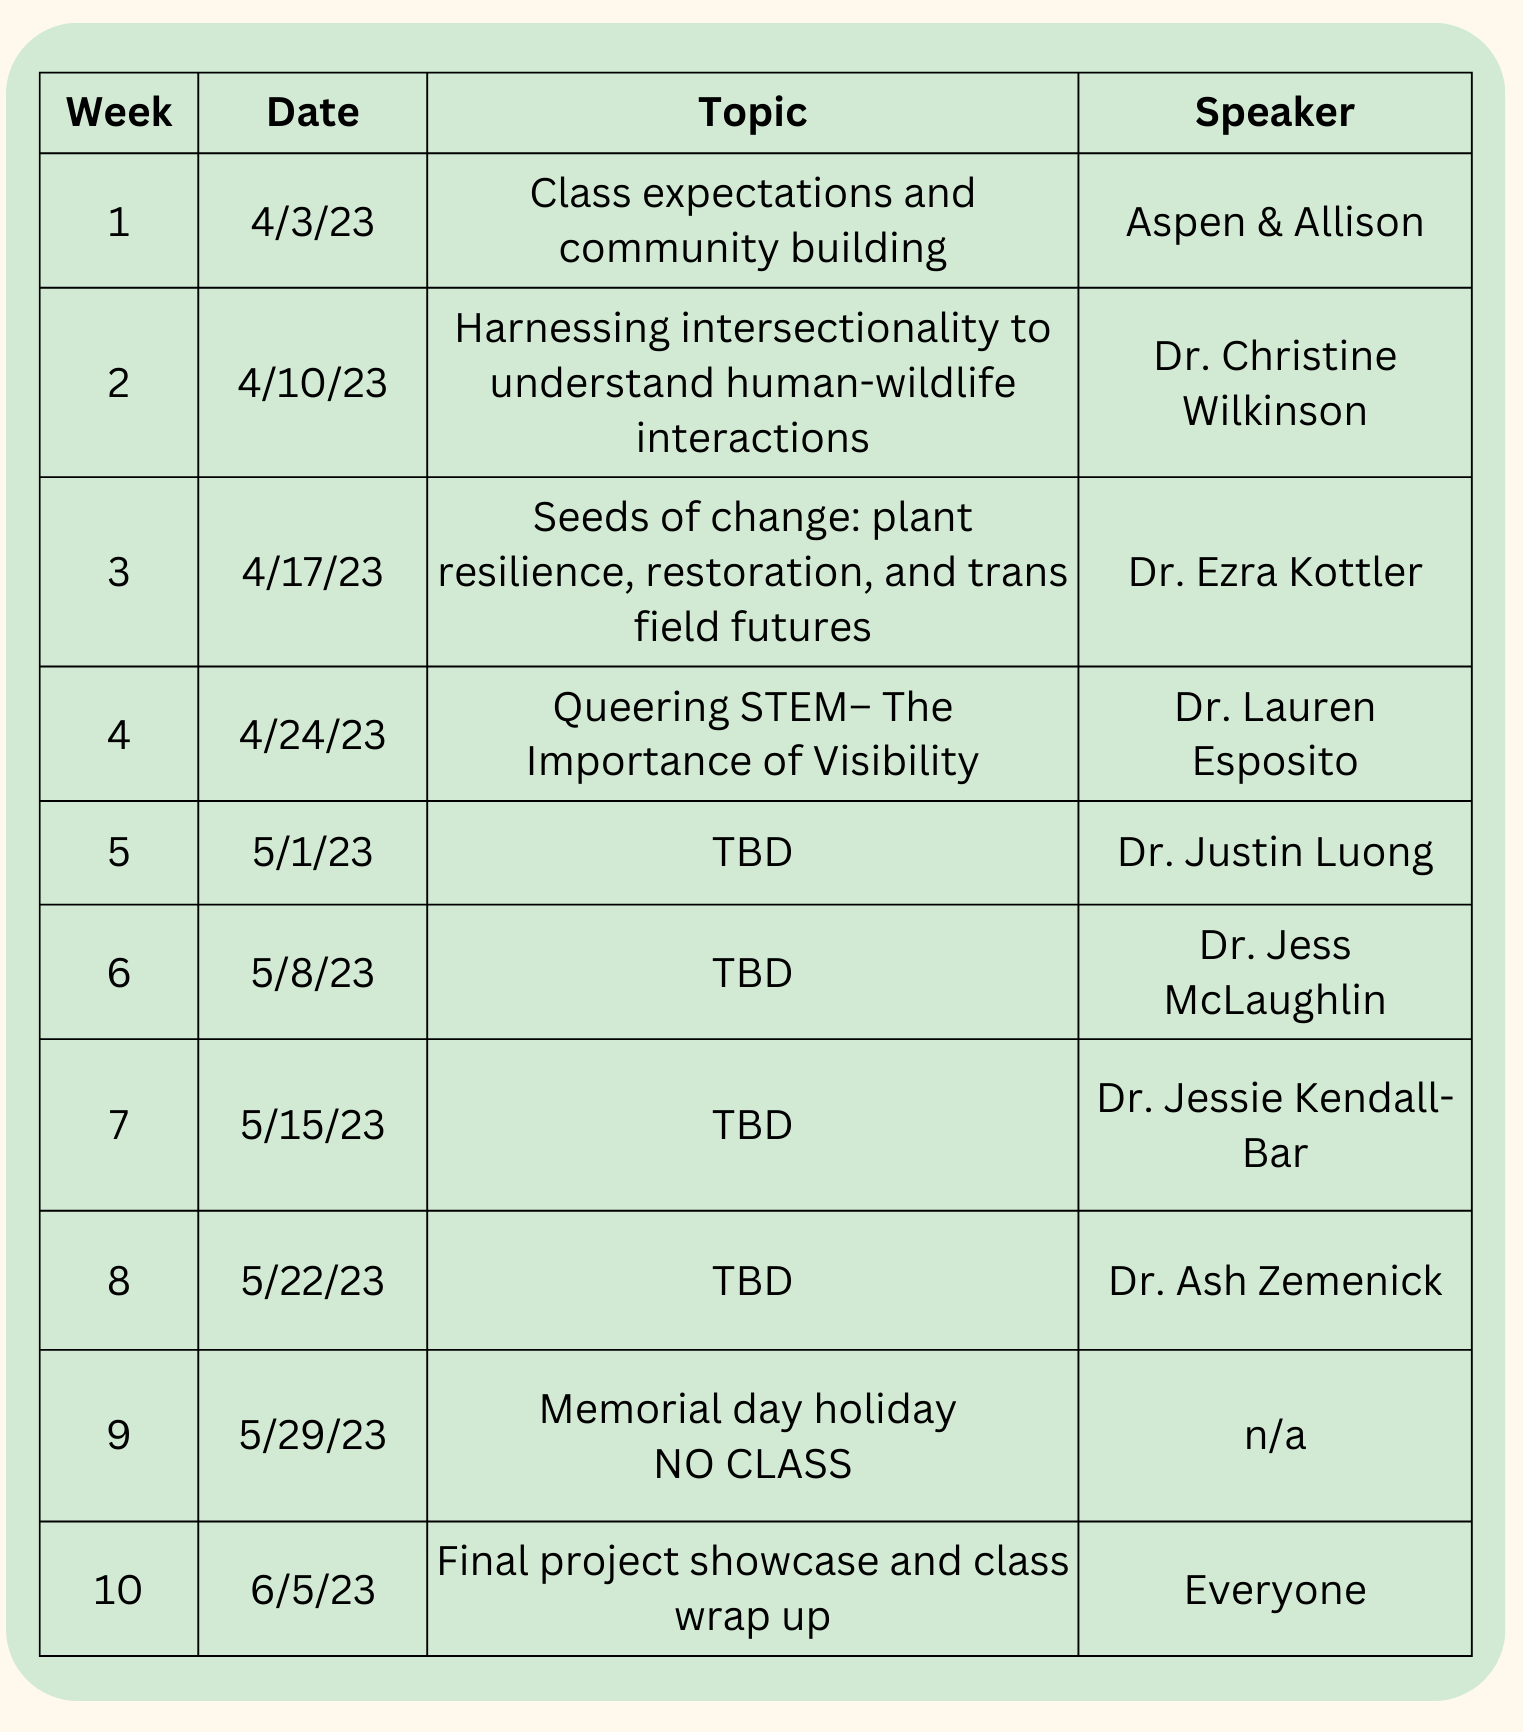
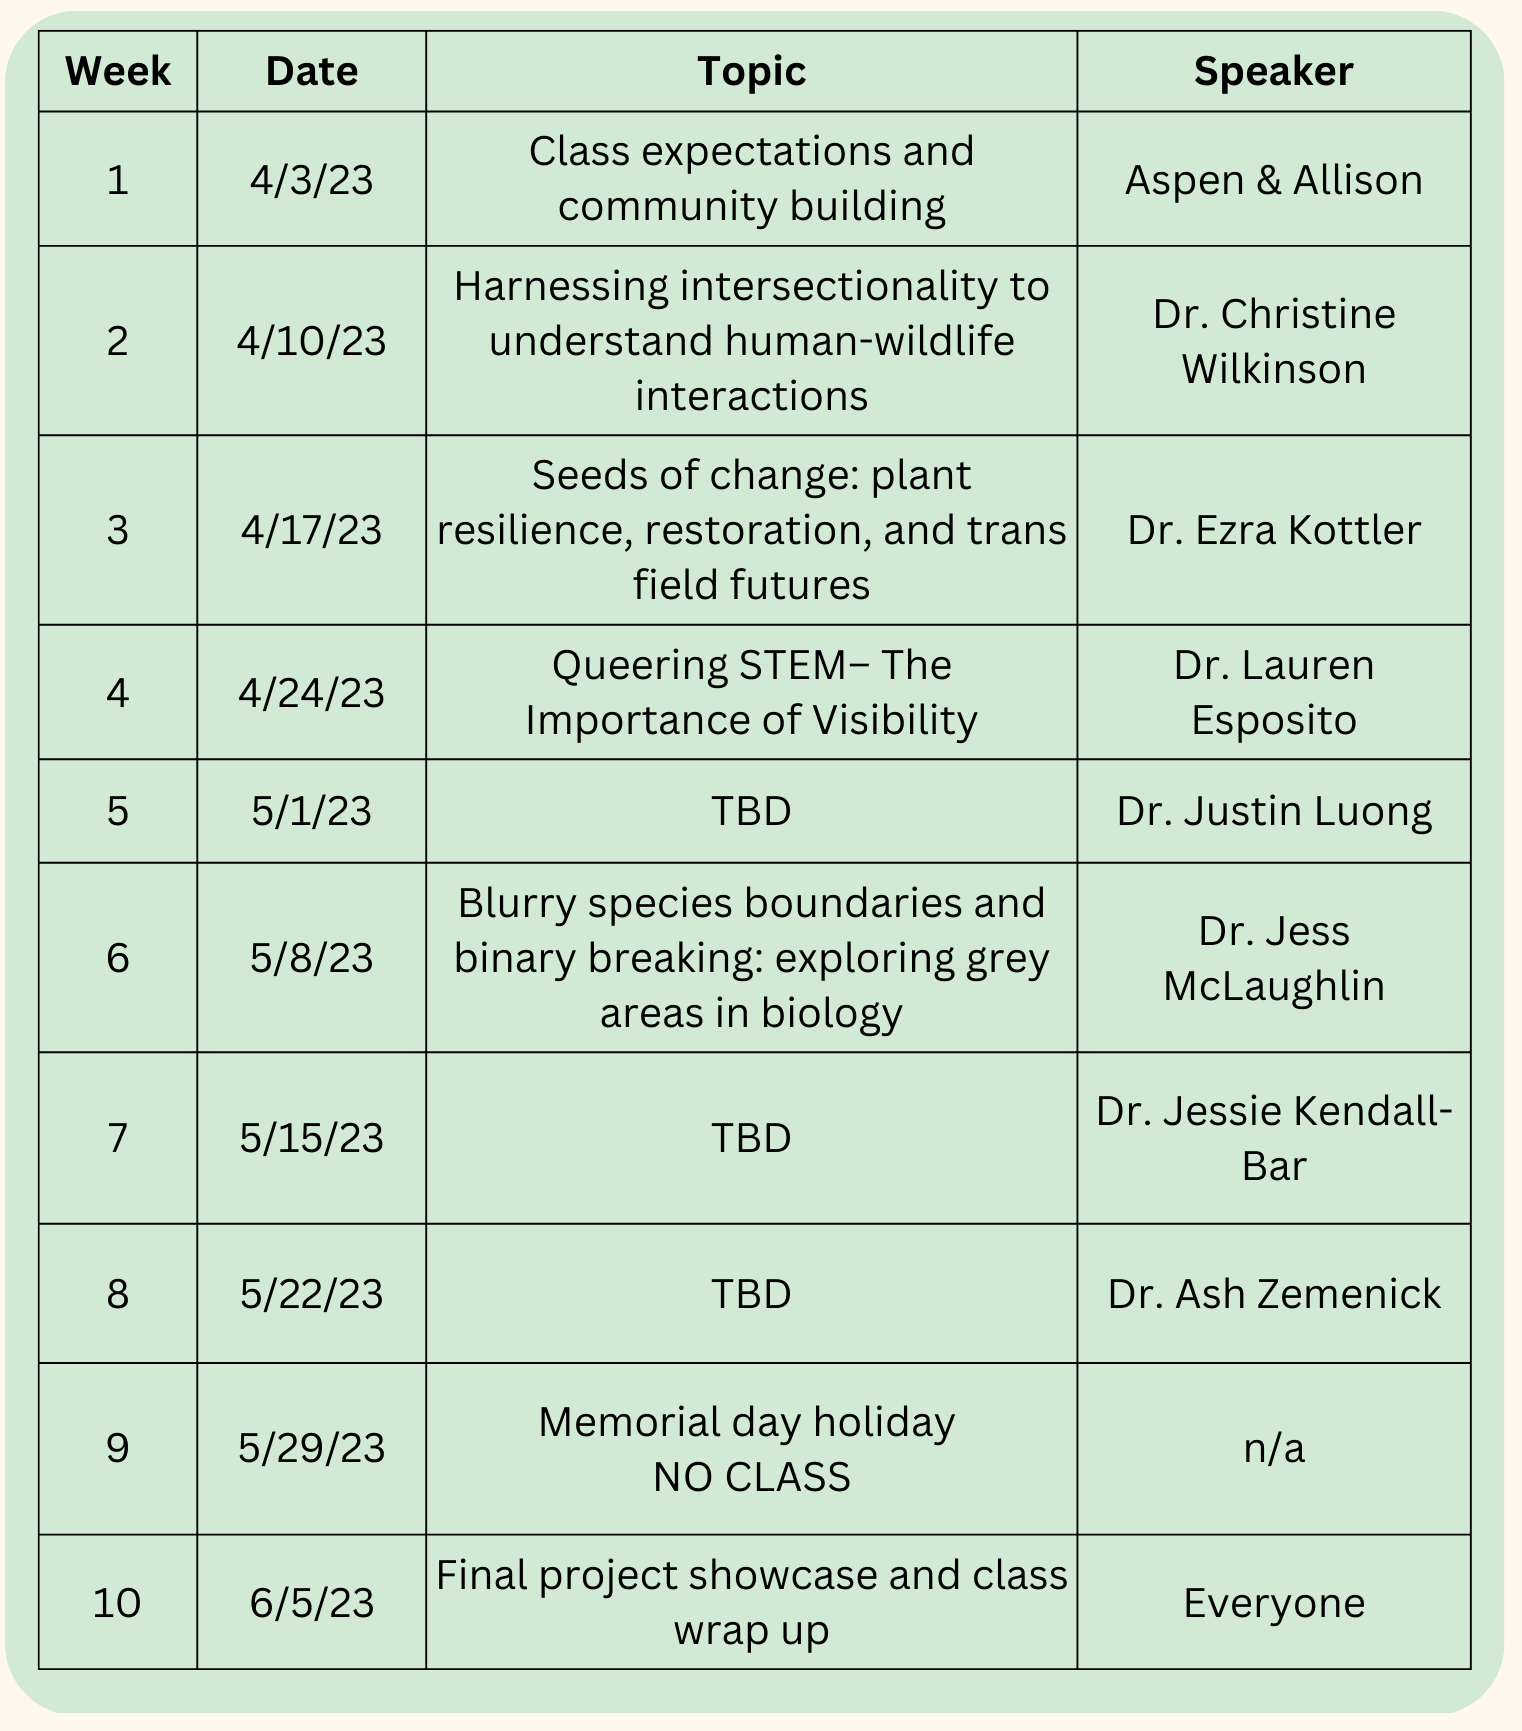
Updating the schedule and adding weeks 5 and 6

diff --git a/docs/course/week6.html b/docs/course/week6.html
@@ -120,6 +120,14 @@ ul.task-list li input[type="checkbox"] {
     <a class="dropdown-item" href="../course/week4.html">
  <span class="dropdown-text">Week 4</span></a>
   </li>  
+        <li>
+    <a class="dropdown-item" href="../course/week5.html">
+ <span class="dropdown-text">Week 5</span></a>
+  </li>  
+        <li>
+    <a class="dropdown-item" href="../course/week6.html">
+ <span class="dropdown-text">Week 6</span></a>
+  </li>  
     </ul>
   </li>
 </ul>
@@ -164,18 +172,20 @@ ul.task-list li input[type="checkbox"] {
 
 <section id="speaker-dr.-jess-mclaughlin" class="level2">
 <h2 class="anchored" data-anchor-id="speaker-dr.-jess-mclaughlin">Speaker: Dr.&nbsp;Jess McLaughlin</h2>
+<p><span class="custom-subtitle">Blurry species boundaries and binary breaking: exploring grey areas in biology</span></p>
 <div class="columns">
 <div class="column" style="width:35%;">
-<p>Jess’s photo here</p>
+<p><img src="../img/JessMcLaughlin.jpeg" class="img-fluid"></p>
 </div><div class="column" style="width:5%;">
 
 </div><div class="column" style="width:60%;">
-<p>Jess’s bio goes here</p>
+<p>Jess McLaughlin is a postdoc at UC Berkeley studying comparative genomics of anoles in the Caribbean. They received their BSc in Wildlife Biology and MSc in Biological Sciences at University of Alaska Fairbanks, and their PhD in Biology at University of Oklahoma. Their work focuses on using genomics to understand what drives diversification and speciation. As a nonbinary biologist, Jess also works on developing teaching guides to better convey the complexity of the biology of sex in the classroom, and is an advocate for LGBTQ+ inclusion in EEB. When they aren’t doing science or shouting about trans rights on the internet, they can be found beachcombing, playing Dungeons and Dragons, and hanging out with their two dogs and cornsnake.</p>
 </div>
 </div>
 </section>
 <section id="assigned-reading" class="level2">
 <h2 class="anchored" data-anchor-id="assigned-reading">Assigned reading</h2>
+<p>“Multimodal models of animal sex: breaking binaries leads to a better understanding of ecology and evolution”: <a href="https://www.biorxiv.org/content/10.1101/2023.01.26.525769v1" class="uri">https://www.biorxiv.org/content/10.1101/2023.01.26.525769v1</a></p>
 
 
 </section>

diff --git a/docs/course/week5.html b/docs/course/week5.html
@@ -120,6 +120,14 @@ ul.task-list li input[type="checkbox"] {
     <a class="dropdown-item" href="../course/week4.html">
  <span class="dropdown-text">Week 4</span></a>
   </li>  
+        <li>
+    <a class="dropdown-item" href="../course/week5.html">
+ <span class="dropdown-text">Week 5</span></a>
+  </li>  
+        <li>
+    <a class="dropdown-item" href="../course/week6.html">
+ <span class="dropdown-text">Week 6</span></a>
+  </li>  
     </ul>
   </li>
 </ul>
@@ -166,11 +174,11 @@ ul.task-list li input[type="checkbox"] {
 <h2 class="anchored" data-anchor-id="speaker-dr.-justin-luong">Speaker: Dr.&nbsp;Justin Luong</h2>
 <div class="columns">
 <div class="column" style="width:35%;">
-<p>Justin’s photo here</p>
+<p>Stay tuned for more information soon!</p>
 </div><div class="column" style="width:5%;">
 
 </div><div class="column" style="width:60%;">
-<p>Justin’s bio goes here</p>
+
 </div>
 </div>
 </section>

diff --git a/docs/course/week4.html b/docs/course/week4.html
@@ -120,6 +120,14 @@ ul.task-list li input[type="checkbox"] {
     <a class="dropdown-item" href="../course/week4.html">
  <span class="dropdown-text">Week 4</span></a>
   </li>  
+        <li>
+    <a class="dropdown-item" href="../course/week5.html">
+ <span class="dropdown-text">Week 5</span></a>
+  </li>  
+        <li>
+    <a class="dropdown-item" href="../course/week6.html">
+ <span class="dropdown-text">Week 6</span></a>
+  </li>  
     </ul>
   </li>
 </ul>
@@ -164,6 +172,7 @@ ul.task-list li input[type="checkbox"] {
 
 <section id="speaker-dr.-lauren-esposito" class="level2">
 <h2 class="anchored" data-anchor-id="speaker-dr.-lauren-esposito">Speaker: Dr.&nbsp;Lauren Esposito</h2>
+<p><span class="custom-subtitle">Queering STEM– The Importance of Visibility</span></p>
 <div class="columns">
 <div class="column" style="width:35%;">
 <p><img src="../img/LaurenEsposito.jpeg" class="img-fluid"></p>

diff --git a/docs/course/schedule.html b/docs/course/schedule.html
@@ -120,6 +120,14 @@ ul.task-list li input[type="checkbox"] {
     <a class="dropdown-item" href="../course/week4.html">
  <span class="dropdown-text">Week 4</span></a>
   </li>  
+        <li>
+    <a class="dropdown-item" href="../course/week5.html">
+ <span class="dropdown-text">Week 5</span></a>
+  </li>  
+        <li>
+    <a class="dropdown-item" href="../course/week6.html">
+ <span class="dropdown-text">Week 6</span></a>
+  </li>  
     </ul>
   </li>
 </ul>

diff --git a/docs/course/week1.html b/docs/course/week1.html
@@ -120,6 +120,14 @@ ul.task-list li input[type="checkbox"] {
     <a class="dropdown-item" href="../course/week4.html">
  <span class="dropdown-text">Week 4</span></a>
   </li>  
+        <li>
+    <a class="dropdown-item" href="../course/week5.html">
+ <span class="dropdown-text">Week 5</span></a>
+  </li>  
+        <li>
+    <a class="dropdown-item" href="../course/week6.html">
+ <span class="dropdown-text">Week 6</span></a>
+  </li>  
     </ul>
   </li>
 </ul>

diff --git a/docs/course/week10.html b/docs/course/week10.html
@@ -120,6 +120,14 @@ ul.task-list li input[type="checkbox"] {
     <a class="dropdown-item" href="../course/week4.html">
  <span class="dropdown-text">Week 4</span></a>
   </li>  
+        <li>
+    <a class="dropdown-item" href="../course/week5.html">
+ <span class="dropdown-text">Week 5</span></a>
+  </li>  
+        <li>
+    <a class="dropdown-item" href="../course/week6.html">
+ <span class="dropdown-text">Week 6</span></a>
+  </li>  
     </ul>
   </li>
 </ul>

diff --git a/docs/course/week2.html b/docs/course/week2.html
@@ -120,6 +120,14 @@ ul.task-list li input[type="checkbox"] {
     <a class="dropdown-item" href="../course/week4.html">
  <span class="dropdown-text">Week 4</span></a>
   </li>  
+        <li>
+    <a class="dropdown-item" href="../course/week5.html">
+ <span class="dropdown-text">Week 5</span></a>
+  </li>  
+        <li>
+    <a class="dropdown-item" href="../course/week6.html">
+ <span class="dropdown-text">Week 6</span></a>
+  </li>  
     </ul>
   </li>
 </ul>

diff --git a/docs/course/week3.html b/docs/course/week3.html
@@ -120,6 +120,14 @@ ul.task-list li input[type="checkbox"] {
     <a class="dropdown-item" href="../course/week4.html">
  <span class="dropdown-text">Week 4</span></a>
   </li>  
+        <li>
+    <a class="dropdown-item" href="../course/week5.html">
+ <span class="dropdown-text">Week 5</span></a>
+  </li>  
+        <li>
+    <a class="dropdown-item" href="../course/week6.html">
+ <span class="dropdown-text">Week 6</span></a>
+  </li>  
     </ul>
   </li>
 </ul>

diff --git a/docs/course/week7.html b/docs/course/week7.html
@@ -120,6 +120,14 @@ ul.task-list li input[type="checkbox"] {
     <a class="dropdown-item" href="../course/week4.html">
  <span class="dropdown-text">Week 4</span></a>
   </li>  
+        <li>
+    <a class="dropdown-item" href="../course/week5.html">
+ <span class="dropdown-text">Week 5</span></a>
+  </li>  
+        <li>
+    <a class="dropdown-item" href="../course/week6.html">
+ <span class="dropdown-text">Week 6</span></a>
+  </li>  
     </ul>
   </li>
 </ul>

diff --git a/docs/course/week8.html b/docs/course/week8.html
@@ -120,6 +120,14 @@ ul.task-list li input[type="checkbox"] {
     <a class="dropdown-item" href="../course/week4.html">
  <span class="dropdown-text">Week 4</span></a>
   </li>  
+        <li>
+    <a class="dropdown-item" href="../course/week5.html">
+ <span class="dropdown-text">Week 5</span></a>
+  </li>  
+        <li>
+    <a class="dropdown-item" href="../course/week6.html">
+ <span class="dropdown-text">Week 6</span></a>
+  </li>  
     </ul>
   </li>
 </ul>

diff --git a/docs/course/week9.html b/docs/course/week9.html
@@ -120,6 +120,14 @@ ul.task-list li input[type="checkbox"] {
     <a class="dropdown-item" href="../course/week4.html">
  <span class="dropdown-text">Week 4</span></a>
   </li>  
+        <li>
+    <a class="dropdown-item" href="../course/week5.html">
+ <span class="dropdown-text">Week 5</span></a>
+  </li>  
+        <li>
+    <a class="dropdown-item" href="../course/week6.html">
+ <span class="dropdown-text">Week 6</span></a>
+  </li>  
     </ul>
   </li>
 </ul>

diff --git a/docs/about.html b/docs/about.html
@@ -120,6 +120,14 @@ ul.task-list li input[type="checkbox"] {
     <a class="dropdown-item" href="./course/week4.html">
  <span class="dropdown-text">Week 4</span></a>
   </li>  
+        <li>
+    <a class="dropdown-item" href="./course/week5.html">
+ <span class="dropdown-text">Week 5</span></a>
+  </li>  
+        <li>
+    <a class="dropdown-item" href="./course/week6.html">
+ <span class="dropdown-text">Week 6</span></a>
+  </li>  
     </ul>
   </li>
 </ul>
